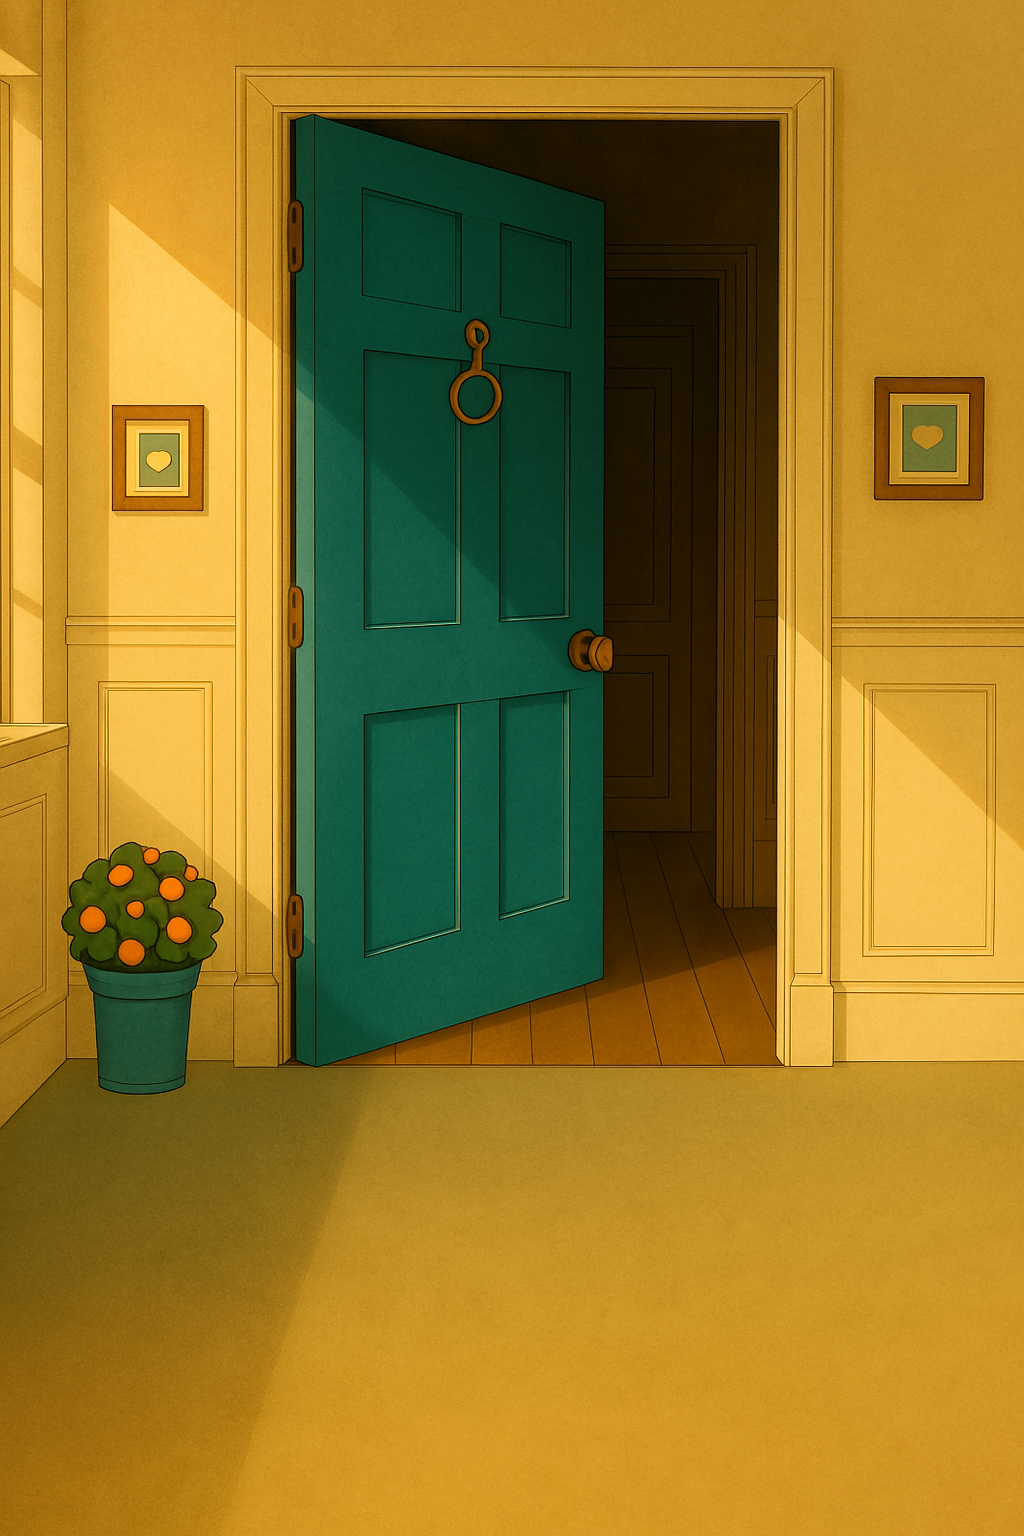
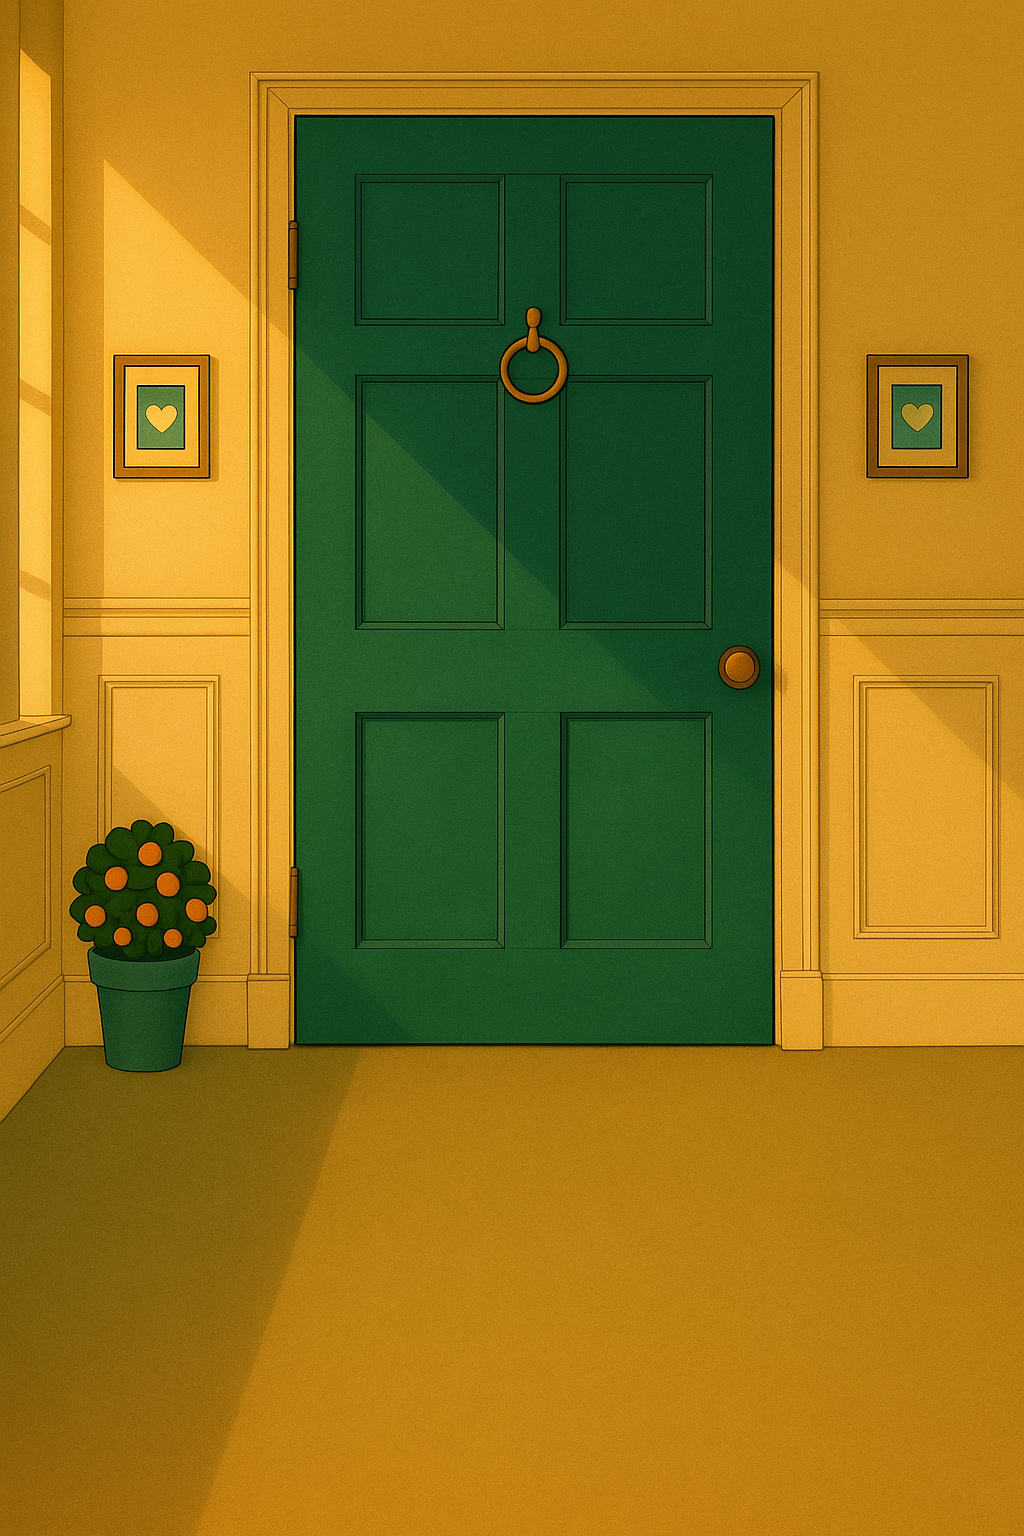
intro smoothed

diff --git a/src/components/GameScene.tsx b/src/components/GameScene.tsx
@@ -103,6 +103,7 @@ const GameScene = () => {
     let isMounted = true;
     
     const runSequence = async () => {
+
       // Initial knock sequence
       if (currentStep === 0) {
         // First knock
@@ -120,6 +121,7 @@ const GameScene = () => {
         // Wait for user to continue
         await waitForContinue();
         setPlayerText('');
+        setCurrentScene('/images/scenes/door-open-empty.png');
     
         // Door opening
         playSound(2);
@@ -181,7 +183,7 @@ const GameScene = () => {
 
   return (
     <div className="relative h-screen w-full flex flex-col bg-gray-900">
-      {/* Image Container */}
+      {/* Image Container - No changes here */}
       <div className="relative w-full flex-1 min-h-[300px]">
         <div className="relative h-full max-w-4xl mx-auto">
           <Image
@@ -195,26 +197,34 @@ const GameScene = () => {
         </div>
       </div>
 
-      {/* Text Container */}
-      <div className="bg-black/80 p-4 overflow-y-auto flex-shrink-0 min-h-[200px]">
-        <div className="max-w-2xl mx-auto space-y-2">
+      {/* Fixed-height Text Container - Critical changes here */}
+      <div 
+        className="bg-black/80 p-4 flex-shrink-0"
+        style={{
+          height: '40vh',
+          minHeight: '250px'
+        }}
+      >
+        <div className="max-w-2xl mx-auto h-full flex flex-col justify-between">
           {phase === 'intro' ? (
             <>
               {playerText && (
-                <div className="border-l-4 border-cyan-400 pl-2 animate-fade-in">
+                <div className="border-l-4 border-cyan-400 pl-2">
                   <p className="text-white text-sm">You:</p>
                   <p className="text-cyan-300 text-base">{playerText}</p>
                 </div>
               )}
               {tessaText && (
-                <div className="border-l-4 border-rose-400 pl-2 animate-fade-in">
+                <div className="border-l-4 border-rose-400 pl-2">
                   <p className="text-white text-sm">Tessa:</p>
                   <p className="text-rose-300 text-base italic">{tessaText}</p>
                 </div>
               )}
+              {/* Spacer to maintain height */}
+              {!tessaText && <div className="flex-1" />}
             </>
           ) : phase === 'choices' ? (
-            <>
+            <div className="h-full flex flex-col justify-between">
               <div className="border-l-4 border-rose-400 pl-2">
                 <p className="text-white text-sm">Tessa:</p>
                 <p className="text-rose-300 text-base italic">{currentChoiceScene.tessaText}</p>
@@ -233,9 +243,9 @@ const GameScene = () => {
                   </button>
                 ))}
               </div>
-            </>
+            </div>
           ) : (
-            <div className="space-y-4">
+            <div className="h-full flex flex-col justify-between">
               <div className="border-l-4 border-rose-400 pl-2">
                 <p className="text-white text-sm">Tessa:</p>
                 <p className="text-rose-300 text-base italic">{endingText}</p>
